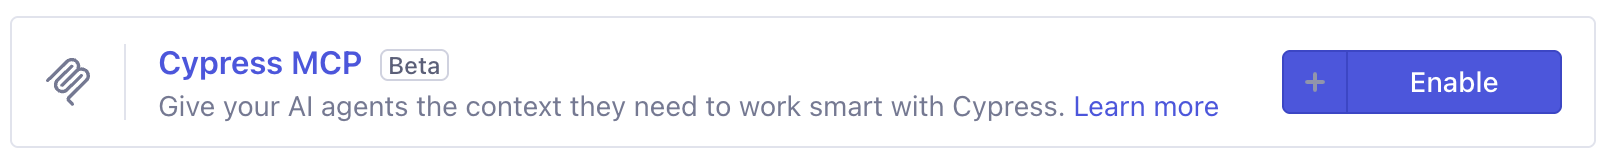
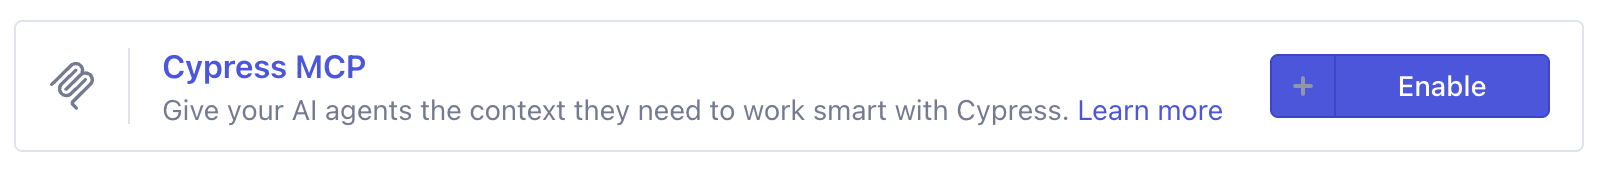
Cloud MCP OAuth (#6459)

Pull request: Cloud MCP OAuth
<!-- CURSOR_SUMMARY -->
> [!NOTE]
> **Low Risk**
> Documentation-only changes that update Cloud MCP authentication guidance and tracking links; low risk aside from potential confusion if OAuth/PAT instructions or UTM URLs are incorrect.
> 
> **Overview**
> Updates Cloud MCP docs to **recommend OAuth authentication** (with fallback to personal access tokens), including new setup steps per AI client, troubleshooting, and guidance for switching from PAT to OAuth.
> 
> Removes the *Beta* labeling for Cloud MCP references, fixes minor copy/typos, and adds UTM-tracked links for the announcement bar and “What’s New” promos (including a new `ui-coverage` promo entry).
> 
> <sup>Reviewed by [Cursor Bugbot](https://cursor.com/bugbot) for commit 874ea45835ca0b65d1e7706cd9920e16b598244e. Bugbot is set up for automated code reviews on this repo. Configure [here](https://www.cursor.com/dashboard/bugbot).</sup>
<!-- /CURSOR_SUMMARY -->

diff --git a/docusaurus.config.js b/docusaurus.config.js
@@ -171,7 +171,7 @@ const config = {
         //give id a unique value to get a new announcement bar to appear
         id: 'cloud-mcp-april-2026',
         // Visual content (including Cypress Design icon) is rendered in src/theme/AnnouncementBar/Content
-        content: `🌟 Close the context gap. Bring real-time test data to your AI assistant with Cloud MCP &mdash; <a href="/cloud/integrations/cloud-mcp?utm_medium=announcement-bar&utm_campaign=cloud-mcp-beta">Learn more</a>`,
+        content: `🌟 Close the context gap. Bring real-time test data to your AI assistant with Cloud MCP &mdash; <a href="/cloud/integrations/cloud-mcp?utm_medium=announcement-bar&utm_source=docs.cypress.io&utm_campaign=cloud-mcp">Learn more</a>`,
         isCloseable: true,
       },
       footer: {